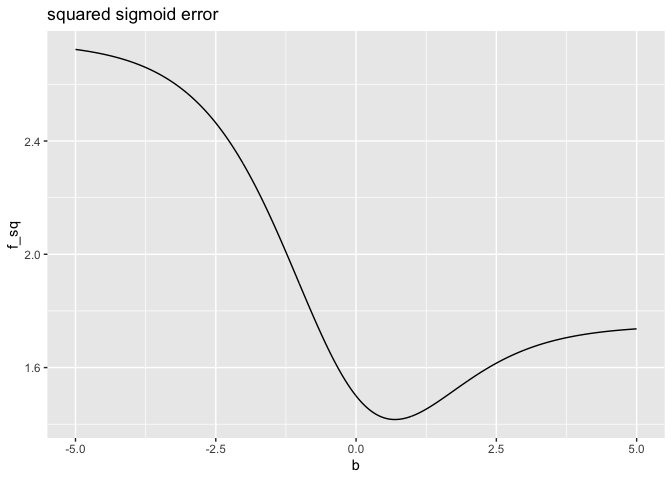
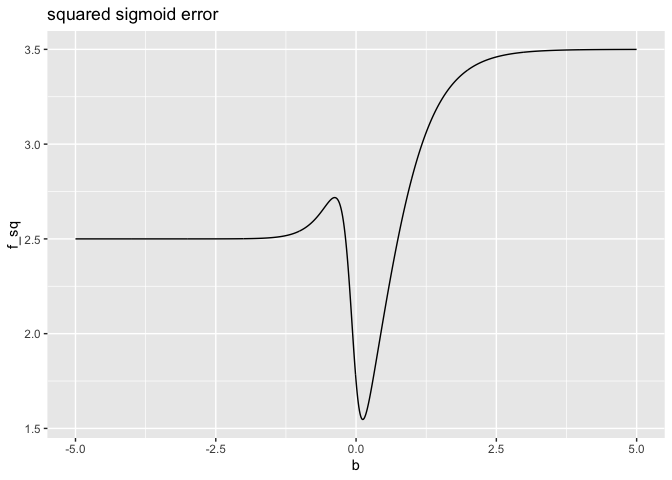
work on example

diff --git a/WhyNotSquareError/Square_Error_Example.md b/WhyNotSquareError/Square_Error_Example.md
@@ -10,10 +10,12 @@ sigmoid <- function(x) {
   1/(1 + exp(-x))
 }
 
+
 d <- data.frame(
-  x = c(0, 0, 0, 1, 1, 1),
-  y = c(0, 0, 1, 0, 1, 1)
+  x = c(-2, -2, -2, 0, 0, 10, 10),
+  y = c(1, 1, 1, 0, 1, 1, 1)
 )
+
 
 f_sq <- function(b, d) {
   sum( (d$y - sigmoid(b * d$x))^2 )
@@ -56,5 +58,7 @@ ggplot(data = plt_frame, aes(x = b, y = f_deviance)) +
   geom_line() +
   ggtitle("deviance sigmoid error")
 ```
+
+    ## Warning: Removed 133 row(s) containing missing values (geom_path).
 
 ![](Square_Error_Example_files/figure-gfm/unnamed-chunk-4-2.png)<!-- -->
